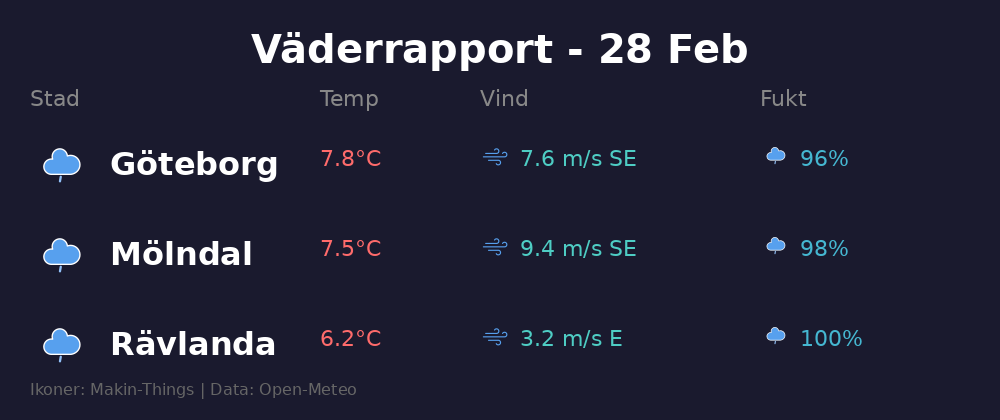
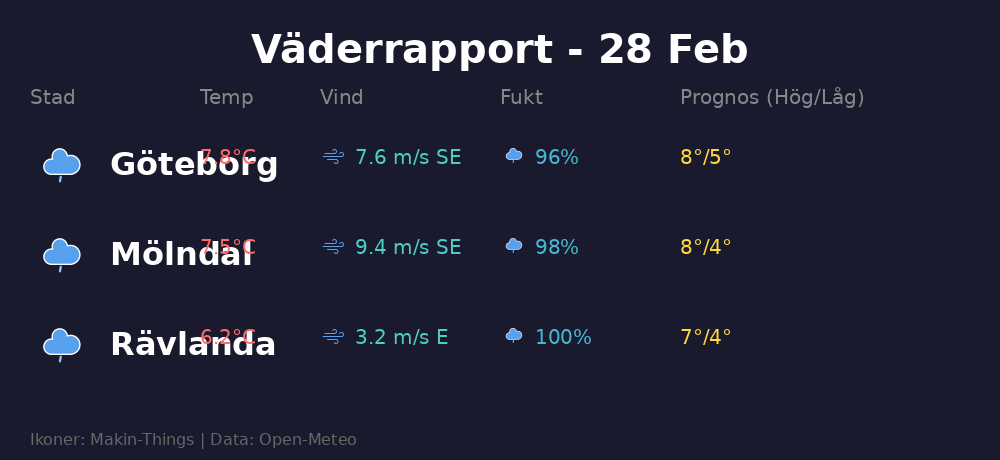
Add multi-language support and forecast feature

diff --git a/weather-image.py b/weather-image.py
@@ -1,13 +1,13 @@
 #!/usr/bin/env python3
 """Weather report image generator for OpenClaw
-Uses Makin-Things SVG weather icons and config.json for locations!
+Supports multiple languages and forecasts!
 """
 import os
 import sys
 import json
 from datetime import datetime
 
-# Try to import dependencies - install instructions if missing
+# Try to import dependencies
 try:
     from PIL import Image, ImageDraw, ImageFont
     import cairosvg
@@ -17,7 +17,7 @@ except ImportError as e:
     print("Install: pip3 install pillow cairosvg")
     sys.exit(1)
 
-# Config file path - can be overridden via argument
+# Config file path
 CONFIG_PATH = os.path.dirname(os.path.abspath(__file__)) + "/config.json"
 if len(sys.argv) > 1:
     CONFIG_PATH = sys.argv[1]
@@ -25,14 +25,13 @@ if len(sys.argv) > 1:
 # Load config
 if not os.path.exists(CONFIG_PATH):
     print(f"Config file not found: {CONFIG_PATH}")
-    print("Using default config...")
     config = {
         "locations": [
             {"name": "Göteborg", "lat": 57.7089, "lon": 11.9746},
             {"name": "Mölndal", "lat": 57.6561, "lon": 12.0176},
             {"name": "Rävlanda", "lat": 57.68, "lon": 12.50}
         ],
-        "settings": {"title": "Väderrapport"}
+        "settings": {"title": "Väderrapport", "language": "sv", "include_forecast": True}
     }
 else:
     with open(CONFIG_PATH) as f:
@@ -41,16 +40,28 @@ else:
 # Get config values
 locations = config.get("locations", [])
 settings = config.get("settings", {})
+languages = config.get("languages", {})
+
+# Settings
 title = settings.get("title", "Väderrapport")
+language = settings.get("language", "sv")
+include_forecast = settings.get("include_forecast", True)
 img_width = settings.get("image_width", 1000)
-img_height = settings.get("image_height", 420)
 icon_size = settings.get("icon_size", 64)
+
+# Get language strings
+lang = languages.get(language, languages.get("sv", {}))
+if not lang:
+    lang = {
+        "title": "Väderrapport", "city": "Stad", "temp": "Temp",
+        "wind": "Vind", "humidity": "Fukt", "high": "Hög", "low": "Låg",
+        "forecast": "Prognos", "footer": "Ikoner: Makin-Things | Data: Open-Meteo"
+    }
 
 # Icons directory
 ICONS_DIR = "/tmp/makin-icons"
 os.makedirs(ICONS_DIR, exist_ok=True)
 
-# Download icons if needed
 def get_icon(name, size=64):
     path = f"{ICONS_DIR}/{name}_{size}.png"
     if not os.path.exists(path):
@@ -58,24 +69,21 @@ def get_icon(name, size=64):
         try:
             svg_data = urllib.request.urlopen(svg_url, timeout=10).read()
             cairosvg.svg2png(bytestring=svg_data, write_to=path, output_width=size, output_height=size)
-        except Exception as e:
-            print(f"Warning: Could not download {name}: {e}")
+        except:
             return None
     return Image.open(path).convert("RGBA")
 
-# Preload weather icons
-print("Laddar väderikoner...")
+# Preload icons
+print("Laddar ikoner...")
 weather_icons = {}
 for name in ["clear-day", "cloudy-1-day", "cloudy-2-day", "cloudy", "fog", 
              "rainy-1", "rainy-2", "rainy-3", "snowy-1", "snowy-2", "snowy-3", "thunderstorms"]:
     weather_icons[name] = get_icon(name, icon_size)
 
-# Preload data icons
-print("Laddar dataikoner...")
-wind_icon = get_icon("wind", 32)
-humidity_icon = get_icon("rainy-1", 32)
+wind_icon = get_icon("wind", 28)
+humidity_icon = get_icon("rainy-1", 28)
 
-# Weather code to icon name
+# Weather code mapping
 def get_icon_name(code):
     mapping = {
         0: "clear-day", 1: "cloudy-1-day", 2: "cloudy-2-day", 3: "cloudy",
@@ -88,25 +96,29 @@ def get_icon_name(code):
     }
     return mapping.get(code, "cloudy")
 
-# Get weather data
+# Fetch current weather + daily forecast
 def get_weather(lat, lon):
-    url = f"https://api.open-meteo.com/v1/forecast?latitude={lat}&longitude={lon}&current=temperature_2m,relative_humidity_2m,weather_code,wind_speed_10m,wind_direction_10m&timezone=Europe/Stockholm"
+    # Include daily forecast if enabled
+    daily_params = ""
+    if include_forecast:
+        daily_params = "&daily=temperature_2m_max,temperature_2m_min"
+    
+    url = f"https://api.open-meteo.com/v1/forecast?latitude={lat}&longitude={lon}&current=temperature_2m,relative_humidity_2m,weather_code,wind_speed_10m,wind_direction_10m{daily_params}&timezone=Europe/Stockholm"
     try:
         data = json.loads(urllib.request.urlopen(url, timeout=10).read().decode())
-        return data['current']
+        return data
     except Exception as e:
-        print(f"Fel vid hämtning av väder för {lat},{lon}: {e}")
+        print(f"Fel: {e}")
         return None
 
-# Wind direction
 def get_wind_dir(deg):
     dirs = ["N", "NE", "E", "SE", "S", "SW", "W", "NW"]
     if deg is None: return "N"
     return dirs[int((deg + 22.5) / 45) % 8]
 
-# Calculate image height based on number of locations
+# Calculate image height
 row_height = 90
-header_height = 100
+header_height = 100 if not include_forecast else 130
 footer_height = 40
 H = header_height + (len(locations) * row_height) + footer_height + 20
 
@@ -119,61 +131,83 @@ draw = ImageDraw.Draw(img)
 try:
     font_title = ImageFont.truetype("/usr/share/fonts/truetype/dejavu/DejaVuSans-Bold.ttf", 40)
     font_loc = ImageFont.truetype("/usr/share/fonts/truetype/dejavu/DejaVuSans-Bold.ttf", 32)
-    font_data = ImageFont.truetype("/usr/share/fonts/truetype/dejavu/DejaVuSans.ttf", 22)
-    font_footer = ImageFont.truetype("/usr/share/fonts/truetype/dejavu/DejaVuSans.ttf", 16)
+    font_data = ImageFont.truetype("/usr/share/fonts/truetype/dejavu/DejaVuSans.ttf", 20)
+    font_small = ImageFont.truetype("/usr/share/fonts/truetype/dejavu/DejaVuSans.ttf", 16)
 except:
-    font_title = font_loc = font_data = font_footer = ImageFont.load_default()
+    font_title = font_loc = font_data = font_small = ImageFont.load_default()
 
-# Title - centered
-title_text = f"{title} - {datetime.now().strftime('%d %b')}"
+# Title
+title_text = f"{lang['title']} - {datetime.now().strftime('%d %b')}"
 title_w = draw.textlength(title_text, font=font_title)
 draw.text(((W - title_w) / 2, 25), title_text, fill='white', font=font_title)
 
-# Column headers
-col_y = 85
-draw.text((30, col_y), "Stad", fill='#888888', font=font_data)
-draw.text((320, col_y), "Temp", fill='#888888', font=font_data)
-draw.text((480, col_y), "Vind", fill='#888888', font=font_data)
-draw.text((760, col_y), "Fukt", fill='#888888', font=font_data)
+# Forecast header (if enabled)
+if include_forecast:
+    col_y = 85
+    draw.text((30, col_y), lang['city'], fill='#888888', font=font_data)
+    draw.text((200, col_y), lang['temp'], fill='#888888', font=font_data)
+    draw.text((320, col_y), lang['wind'], fill='#888888', font=font_data)
+    draw.text((500, col_y), lang['humidity'], fill='#888888', font=font_data)
+    draw.text((680, col_y), f"{lang['forecast']} ({lang['high']}/{lang['low']})", fill='#888888', font=font_data)
+else:
+    col_y = 85
+    draw.text((30, col_y), lang['city'], fill='#888888', font=font_data)
+    draw.text((320, col_y), lang['temp'], fill='#888888', font=font_data)
+    draw.text((480, col_y), lang['wind'], fill='#888888', font=font_data)
+    draw.text((760, col_y), lang['humidity'], fill='#888888', font=font_data)
 
-# Draw each location
+# Draw locations
 y = header_height
 for loc in locations:
     name = loc.get("name", "Unknown")
     lat = loc.get("lat", 0)
     lon = loc.get("lon", 0)
     
-    w = get_weather(lat, lon)
-    if w:
-        icon_name = get_icon_name(w['weather_code'])
+    data = get_weather(lat, lon)
+    if data:
+        current = data.get('current', {})
+        daily = data.get('daily', {})
+        
+        # Current weather
+        code = current.get('weather_code', 3)
+        icon_name = get_icon_name(code)
         icon = weather_icons.get(icon_name)
         
-        # Paste weather icon
         if icon:
             img.paste(icon, (30, y), icon)
         
-        # City name
         draw.text((110, y + 15), name, fill='white', font=font_loc)
         
-        # Temperature (red)
-        temp = f"{w['temperature_2m']:.1f}°C"
-        draw.text((320, y + 15), temp, fill='#ff6b6b', font=font_data)
+        # Temperature
+        temp = f"{current.get('temperature_2m', 0):.1f}°C"
+        draw.text((200, y + 15), temp, fill='#ff6b6b', font=font_data)
         
         # Wind
-        wind = f"{w['wind_speed_10m']:.1f} m/s {get_wind_dir(w['wind_direction_10m'])}"
+        wind = f"{current.get('wind_speed_10m', 0):.1f} m/s {get_wind_dir(current.get('wind_direction_10m'))}"
         if wind_icon:
-            img.paste(wind_icon, (480, y + 8), wind_icon)
-        draw.text((520, y + 15), wind, fill='#4ecdc4', font=font_data)
+            img.paste(wind_icon, (320, y + 10), wind_icon)
+        draw.text((355, y + 15), wind, fill='#4ecdc4', font=font_data)
         
         # Humidity
-        humidity = f"{w['relative_humidity_2m']}%"
+        humidity = f"{current.get('relative_humidity_2m', 0)}%"
         if humidity_icon:
-            img.paste(humidity_icon, (760, y + 8), humidity_icon)
-        draw.text((800, y + 15), humidity, fill='#45b7d1', font=font_data)
+            img.paste(humidity_icon, (500, y + 10), humidity_icon)
+        draw.text((535, y + 15), humidity, fill='#45b7d1', font=font_data)
+        
+        # Forecast (high/low)
+        if include_forecast and daily:
+            temps_max = daily.get('temperature_2m_max', [])
+            temps_min = daily.get('temperature_2m_min', [])
+            codes = daily.get('weather_code', [])
+            
+            if temps_max and temps_min:
+                high = f"{temps_max[0]:.0f}°"
+                low = f"{temps_min[0]:.0f}°"
+                draw.text((680, y + 15), f"{high}/{low}", fill='#ffd93d', font=font_data)
     y += row_height
 
 # Footer
-draw.text((30, H - 30), "Ikoner: Makin-Things | Data: Open-Meteo", fill='#666666', font=font_footer)
+draw.text((30, H - 30), lang['footer'], fill='#666666', font=font_small)
 
 # Save
 output_path = "/tmp/weather-report.png"
